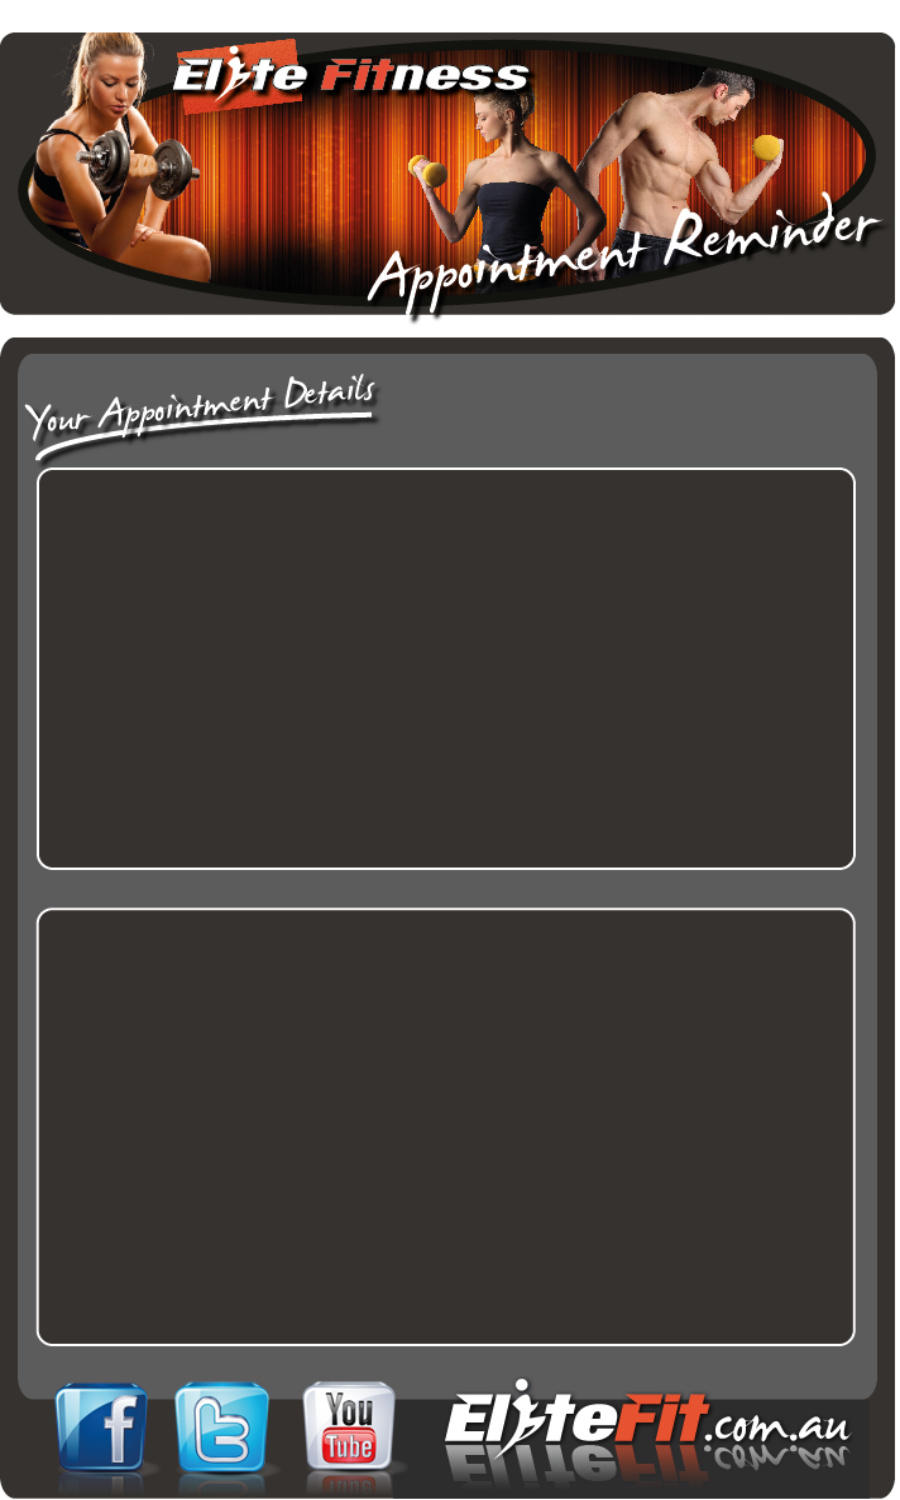
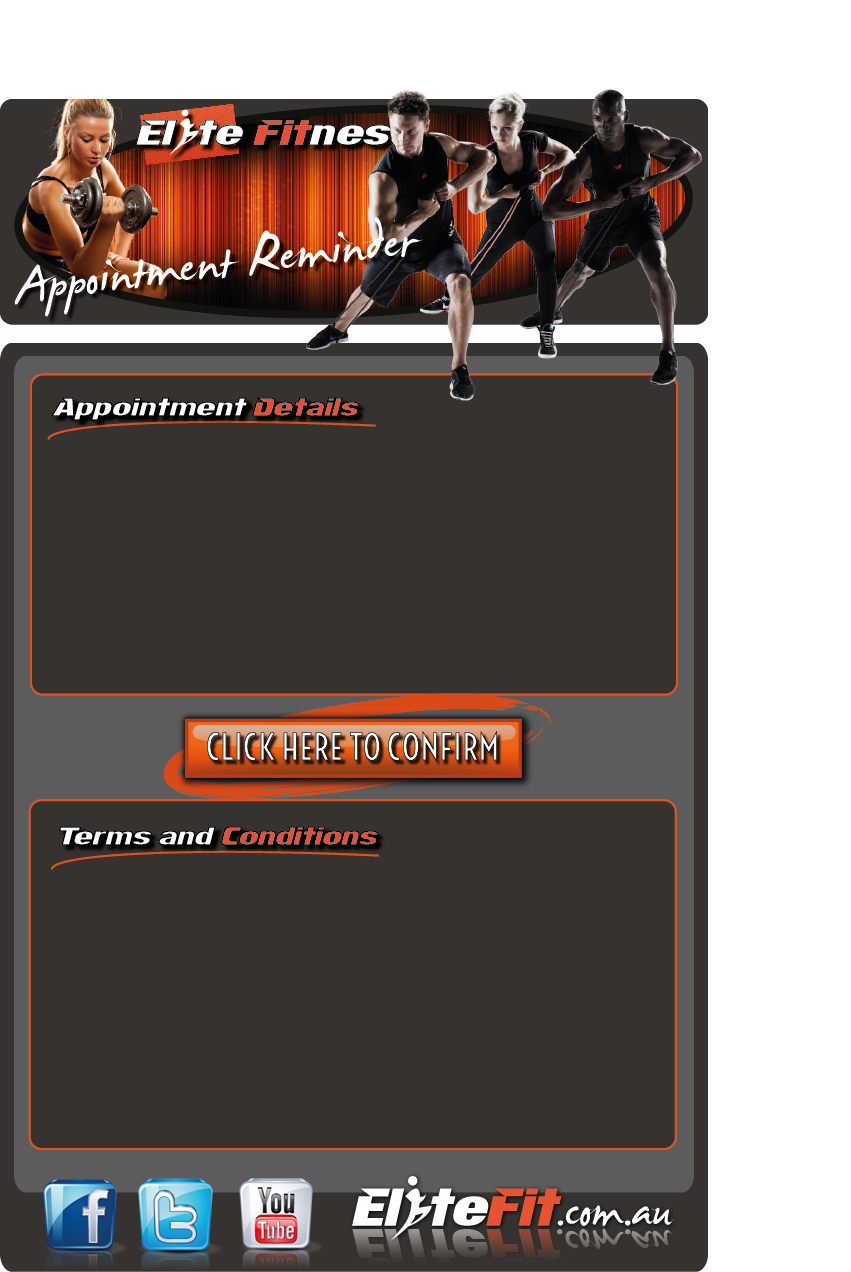
adjusted confirm email template alfa

diff --git a/components/com_multicalendar/DC_MultiViewCal/src/Plugins/jquery.calendar.js b/components/com_multicalendar/DC_MultiViewCal/src/Plugins/jquery.calendar.js
@@ -1964,7 +1964,6 @@
                     url : url,
                     dataType : 'json',
                     success : function(response) { 
-                        //alert(response.Msg);
                         if(response.IsSuccess) {
                             var emails = response.Msg.split(',');
                             
@@ -2030,7 +2029,7 @@
                             alert(data.error);
                             return;
                         }
-                        console.log(data);
+                        //console.log(data);
                         if (data != null && data.error != null) {
                             if (option.onRequestDataError) {
                                 option.onRequestDataError(1, data);

diff --git a/components/com_multicalendar/views/pdf/tmpl/email_reminder.php b/components/com_multicalendar/views/pdf/tmpl/email_reminder.php
@@ -20,6 +20,7 @@
         
         $height = '1500px';
         ?>   
+
         <div  style="
               background-image: url('<?php echo JUri::base() ?>components/com_multicalendar/DC_MultiViewCal/css/images/email_reminder_bgr.png');
               position: absolute;
@@ -28,33 +29,17 @@
               background-size:<?php echo $width; ?>;
               background-repeat: no-repeat;
               font-family: Times New Roman;
-              background-size: 900px auto !important;
               ">
 
            
-            <div style="margin-left: 40px; margin-top: 0; padding: 10px; width: 793px;font-size:16px;">
+            <div style="margin-left: 40px; margin-top: 0; padding: 10px; width: 615px;font-size:14px;">
                   
               
-                <table style="width: 100%; margin-top: 380px;"  border="0">
-                    <tr>
-                        <td align="right">
-                            <a target="_blank" href="<?php echo JUri::base() ?>index.php?option=com_multicalendar&task=confirm_email&event_id=<?php echo base64_encode($event_id) ?>" 
-                                 style="
-                              background-image: url('<?php echo JUri::base() ?>components/com_multicalendar/DC_MultiViewCal/css/images/confirm_email_button.png');
-                              background-repeat: no-repeat;
-                              display: block;
-                              height: 85px;
-                              width: 250px;
-                              "></a>  
-                        </td>
-                    </tr>
-                </table>
-                
-                 <table style="width: 500px;margin-top: 25px"  border="0">
+                 <table style="width: 500px;margin-top: 450px;position:relative;font-size: 14px;"  border="0">
                     <tbody>
                         <tr>
-                            <td style="color:#ffffff;" width="150px">Client Name:</td>
-                            <td style="font-weight: bold;color:#D14F16;background-color:#5c5c5c; border-radius:7px;padding-left: 10px;">
+                            <td style="color:#ffffff;" width="110px">Client Name:</td>
+                            <td style="font-weight: bold;color:#D14F16;padding-left: 10px;">
                                 <i>
                                 <?php
                                 $user = &JFactory::getUser($client_id);
@@ -65,7 +50,7 @@
                         </tr>
                         <tr>
                             <td style="color:#ffffff;">Trainer Name:</td>
-                            <td style="font-weight: bold;color:#D14F16;background-color:#5c5c5c; border-radius:7px;padding-left: 10px;">
+                            <td style="font-weight: bold;color:#D14F16;padding-left: 10px;">
                                 <i>
                                 <?php
                                 $user = &JFactory::getUser($event_data->trainer_id);
@@ -76,7 +61,7 @@
                         </tr>
                         <tr>
                             <td style="color:#ffffff;">Location:</td>
-                            <td style="font-weight: bold;color:#D14F16;background-color:#5c5c5c; border-radius:7px;padding-left: 10px;">
+                            <td style="font-weight: bold;color:#D14F16;padding-left: 10px;">
                                 <i>
                                 <?php
                                 echo $event_data->location;
@@ -87,12 +72,12 @@
                     </tbody>
                 </table>
                     
-                    
-                 <table style="width: 750px; margin-top: 25px;" border="0">
+
+                 <table style="width: 675px; margin-top: 5px;font-size: 14px;" border="0">
                     <tbody>
                         <tr>
-                            <td style="width: 150px;color:#ffffff;">Start Date:</td>
-                            <td style="font-weight: bold;color:#D14F16;background-color:#5c5c5c; border-radius:7px;padding-left: 10px;">
+                            <td style="width: 110px;color:#ffffff;">Start Date:</td>
+                            <td style="font-weight: bold;color:#D14F16;padding-left: 10px;">
                                 <i>
                                 <?php 
                                 $date = JFactory::getDate($event_data->starttime);
@@ -101,7 +86,7 @@
                                 </i>
                             </td>
                             <td style="padding-left: 50px;color:#ffffff;">Finish Date:</td>
-                            <td style="font-weight: bold;width:200px;color:#D14F16;background-color:#5c5c5c; border-radius:7px;padding-left: 10px;">
+                            <td style="font-weight: bold;width:200px;color:#D14F16;padding-left: 10px;">
                                 <i>
                                 <?php 
                                 $date = JFactory::getDate($event_data->endtime);
@@ -112,7 +97,7 @@
                         </tr>
                         <tr>
                             <td style="color:#ffffff;">Start Time:</td>
-                            <td style="font-weight: bold;width:200px;color:#D14F16;background-color:#5c5c5c; border-radius:7px;padding-left: 10px;">
+                            <td style="font-weight: bold;width:200px;color:#D14F16;padding-left: 10px;">
                                 <i>
                                 <?php 
                                 $date = JFactory::getDate($event_data->starttime);
@@ -121,7 +106,7 @@
                                 </i>
                             </td>
                             <td style="padding-left: 50px;color:#ffffff;">Finish Time:</td>
-                            <td style="font-weight: bold;width:200px;color:#D14F16;background-color:#5c5c5c; border-radius:7px;padding-left: 10px;">
+                            <td style="font-weight: bold;width:200px;color:#D14F16;padding-left: 10px;">
                                 <i>
                                 <?php 
                                 $date = JFactory::getDate($event_data->endtime);
@@ -133,11 +118,11 @@
                     </tbody>
                 </table>
                     
-                <table style="width: 500px; margin-top: 25px;"  border="0">
+                <table style="width: 500px; margin-top: 5px;font-size: 14px;"  border="0">
                     <tbody>
                         <tr>
-                            <td style="color:#ffffff;" width="150px;">Appointment:</td>
-                            <td style="font-weight: bold;color:#D14F16;background-color:#5c5c5c; border-radius:7px;padding-left: 10px;">
+                            <td style="color:#ffffff;" width="110px;">Appointment:</td>
+                            <td style="font-weight: bold;color:#D14F16;padding-left: 10px;">
                                 <i>
                                 <?php
                                 echo $event_data->title;
@@ -147,7 +132,7 @@
                         </tr>
                         <tr>
                             <td style="color:#ffffff;">Session Type:</td>
-                            <td style="font-weight: bold;color:#D14F16;background-color:#5c5c5c; border-radius:7px;padding-left: 10px;">
+                            <td style="font-weight: bold;color:#D14F16;padding-left: 10px;">
                                 <i>
                                 <?php
                                 echo $event_data->session_type;
@@ -157,7 +142,7 @@
                         </tr>
                         <tr>
                             <td style="color:#ffffff;">Session Focus:</td>
-                            <td style="font-weight: bold;color:#D14F16;background-color:#5c5c5c; border-radius:7px;padding-left: 10px;">
+                            <td style="font-weight: bold;color:#D14F16;padding-left: 10px;">
                                 <i>
                                 <?php
                                 echo $event_data->session_focus;
@@ -167,25 +152,47 @@
                         </tr>
                     </tbody>
                 </table>
-                    
-                
-                <span></span>
             </div>
-            <div style="font-size: 14px;  color: #FFFFFF;  margin-left: 40px; margin-top: 35px;font-size: 14px; padding: 10px; width: 792px;">
+            <div style="font-size: 14px;  color: #FFFFFF;  margin-left: 40px; margin-top: 0;font-size: 14px; padding: 10px; width: 615px;">
                 (please arrive at least 5 mins before your scheduled appointment time. If you are training or doing anything physical in your appointment, please be sure to do a warm-up by walking, jogging or rowing for 5-10 mins - unless otherwise instructed not to do so)
             </div>
             
-            <div style="  color: #FFFFFF;  margin-left: 40px; margin-top: 60px;font-size: 14px; padding: 10px; width: 792px;">
-                <p style="color:#D14F16;">CANCELLATION POLICY</p>
-                <p>24 hours notice is required to reschedule or cancel any training session or appointment.</p>
-                <p>If less than 24 hours notice is given, FULL FEES will apply for that appointment, unless...</p>
-                <p> - your appointment time can be filled by another client.<br /> - your appointment is able to be rescheduled to another time on the same day (availability depending).</p>
-                <p>If you are late to your appointment, your appointment will still end at the scheduled time.<br /><br />If you do no show up to your appointment or cancel last minute, FULL FEES apply.</p>
-                <p>If you are training early to mid-morning and you need to cancel or reschedule your appointment, you must do so BEFORE 3pm the preceding day to allow time to fill your appointment. Failure to do so will incur FULL SESSION FEES if you cancel too late!</p>
-                <p style="color:#D14F16;">3 ‘STRIKES’ POLICY</p>
-                <p>If you break any of the before mentioned policies, one ‘Strike' will be recorded against you.</p>
-                <p>Each 'Strike' is cumulative and will remain on your record for a period of 1 month.</p>
-                <p>Gaining a 3rd ’Strike' will result in your training being suspended for a length of time determined by your trainer. If this continues, you will no longer be able to continue training with Elite Fitness.</p>
+            
+                <table style="width: 100%; margin-top: 25px;"  border="0">
+                    <tr>
+                        <td align="center">
+                            <a target="_blank" href="<?php echo JUri::base() ?>index.php?option=com_multicalendar&task=confirm_email&event_id=<?php echo base64_encode($event_id) ?>" 
+                                 style="
+                                 display: block;
+                                 height: 68px;
+                                 margin-right: 146px;
+                                 width: 361px;
+                              "></a>  
+                        </td>
+                    </tr>
+                </table>
+                
+            
+            
+            
+            <div style="
+            color: #FFFFFF;
+            font-size: 12px;
+            margin-left: 40px;
+            margin-top: 87px;
+            padding: 10px;
+            width: 615px;
+           ">
+                <p style="color:#D14F16;margin: 5px 0;">CANCELLATION POLICY</p>
+                <p style="margin: 5px 0;">24 hours notice is required to reschedule or cancel any training session or appointment.</p>
+                <p style="margin: 5px 0;">If less than 24 hours notice is given, FULL FEES will apply for that appointment, unless...</p>
+                <p style="margin: 5px 0;"> - your appointment time can be filled by another client.<br /> - your appointment is able to be rescheduled to another time on the same day (availability depending).</p>
+                <p style="margin: 5px 0;">If you are late to your appointment, your appointment will still end at the scheduled time.<br /><br />If you do no show up to your appointment or cancel last minute, FULL FEES apply.</p>
+                <p style="margin: 5px 0;">If you are training early to mid-morning and you need to cancel or reschedule your appointment, you must do so BEFORE 3pm the preceding day to allow time to fill your appointment. Failure to do so will incur FULL SESSION FEES if you cancel too late!</p>
+                <p style="color:#D14F16;margin: 5px 0;">3 ‘STRIKES’ POLICY</p>
+                <p style="margin: 5px 0;">If you break any of the before mentioned policies, one ‘Strike' will be recorded against you.</p>
+                <p style="margin: 5px 0;">Each 'Strike' is cumulative and will remain on your record for a period of 1 month.</p>
+                <p style="margin: 5px 0;">Gaining a 3rd ’Strike' will result in your training being suspended for a length of time determined by your trainer. If this continues, you will no longer be able to continue training with Elite Fitness.</p>
             </div>
         </div>
         

diff --git a/components/com_multicalendar/views/multicalendar/tmpl/ajax_load.php b/components/com_multicalendar/views/multicalendar/tmpl/ajax_load.php
@@ -89,7 +89,7 @@ switch ($method) {
     case "set_event_exircise_order":
         set_event_exircise_order();
     case "send_appointment_email":
-        send_appointment_email(JRequest::getVar('event_id'));
+        send_appointment_email(JRequest::getVar('event_id'), 'workout');
     break;
     case "update_exercise_field":
         update_exercise_field();
@@ -946,14 +946,16 @@ function set_event_exircise_order() {
 /**
  * sends email to the client with appointment content, exercises , etc..
  */
-function send_appointment_email($event_id) {
+function send_appointment_email($event_id, $type) {
     
     $client_ids = getClientsByEvent($event_id);
     
-
+    $layout = '';
+    if($type == 'confirmation') $layout = '&layout=email_reminder';
     
     foreach ($client_ids as $client_id) {
-        $url = JURI::base() .'index.php?option=com_multicalendar&view=pdf&tpml=component&event_id=' . $event_id . '&client_id=' . $client_id;
+        $url = JURI::base() .'index.php?option=com_multicalendar&view=pdf' . $layout . '&tpml=component&event_id=' . $event_id . '&client_id=' . $client_id;
+        
         if(!function_exists('curl_version')) {
             $ret['IsSuccess'] = false;
             $ret['Msg'] = 'cURL not anabled';
@@ -961,6 +963,7 @@ function send_appointment_email($event_id) {
             die();
         }
 
+    
         $ch = curl_init();
         curl_setopt($ch,CURLOPT_USERAGENT,'Mozilla/5.0 (Windows; U; Windows NT 5.1; en-US; rv:1.8.1.13) Gecko/20080311 Firefox/2.0.0.13');
         curl_setopt($ch, CURLOPT_URL,$url);
@@ -972,18 +975,20 @@ function send_appointment_email($event_id) {
         
         $emails[] = $email;
         
-        $send = sendEmail($email, 'Appointment details, elitefit.com.au', $contents);
-        
+        $subject = 'Workout/Training Session';
+        if($type == 'confirmation') $subject = 'Appointment Confirmation';
+        $send = sendEmail($email, $subject, $contents);
+
         if($send != '1') {
             $ret['IsSuccess'] = false;
             $ret['Msg'] = 'Email function error';
             echo json_encode($ret);
             die();
         }
-    }
-    return $emails;
-    
 
+    }
+
+    return $emails;
 }
 
 /**
@@ -1441,7 +1446,7 @@ function sendRemindersManually() {
     
     $emails = array();
     foreach ($event_ids as $event_id) {
-        $emails = array_merge($emails, send_appointment_email($event_id));
+        $emails = array_merge($emails, send_appointment_email($event_id, 'confirmation'));
     }
     
     $emails = implode(', ', $emails);

diff --git a/components/com_multicalendar/views/pdf/tmpl/default.php b/components/com_multicalendar/views/pdf/tmpl/default.php
@@ -150,10 +150,16 @@
                         </div>
                     </td>
                         <td style="vertical-align: top;" width="30%" align="right">
-                            <div style="float: right; position: absolute; right: 20px; text-align: right; top: 70px;">
+                            <div style="font-size: 11px;float: right; position: absolute; right: 20px; text-align: right; top: 70px;">
                                 <span>www.elitefit.com.au</span><br/>
                                 <span>info@elitefit.com.au</span><br/>
-                                <span>0422 050 590</span>
+                                <span>0422 050 590</span><br/><br/>
+                                
+                                <span>facebook.com/EliteTraining</span><br/>
+                                <span>twitter.com/EliteMelbourne</span><br/>
+                                <span>youtube.com/EliteFitnessPT</span><br/>
+                                <span>instagram.com/EliteMelbourne</span><br/>
+                                
                             </div>
                         </td>
                     </tr>

diff --git a/components/com_multicalendar/DC_MultiViewCal/php/exercises.inc.php b/components/com_multicalendar/DC_MultiViewCal/php/exercises.inc.php
@@ -290,7 +290,7 @@ $(document).ready(function() {
             <thead
                 <tr>
                     <th width="15"><a title="Drag, move and drop the row to change the ordering." href="javascript:void(0)" id="drag_exercise"></a></th>
-                    <th width="150" title="Execise/Description/Notes"><a title="Add new exercise" href="javascript:void(0)" id="add_exercise"></a><div style="padding-top: 7px;">Execise/Notes</div></th>
+                    <th width="150" title="Exercise/Description/Notes"><a title="Add new exercise" href="javascript:void(0)" id="add_exercise"></a><div style="padding-top: 7px;">Exercise/Notes</div></th>
                     <th width="40">Speed</th>
                     <th width="40">Weight</th>
                     <th width="40">Reps</th>

diff --git a/components/com_multicalendar/controller.php b/components/com_multicalendar/controller.php
@@ -152,8 +152,8 @@ class MultiCalendarController extends JController
             curl_close ($ch);
 
             $client_email = $this->getClientEmailByEvent($event_id);
-        
-            $email_sent = $this->sendEmail($client_email, 'Appointment details, elitefit.com.au', $contents);
+            $subject = 'Appointment Confirmation';
+            $email_sent = $this->sendEmail($client_email, $subject, $contents);
             
             if($email_sent == '1') {
                 $this->setSentEmailStatus($event_id, $client_email);
